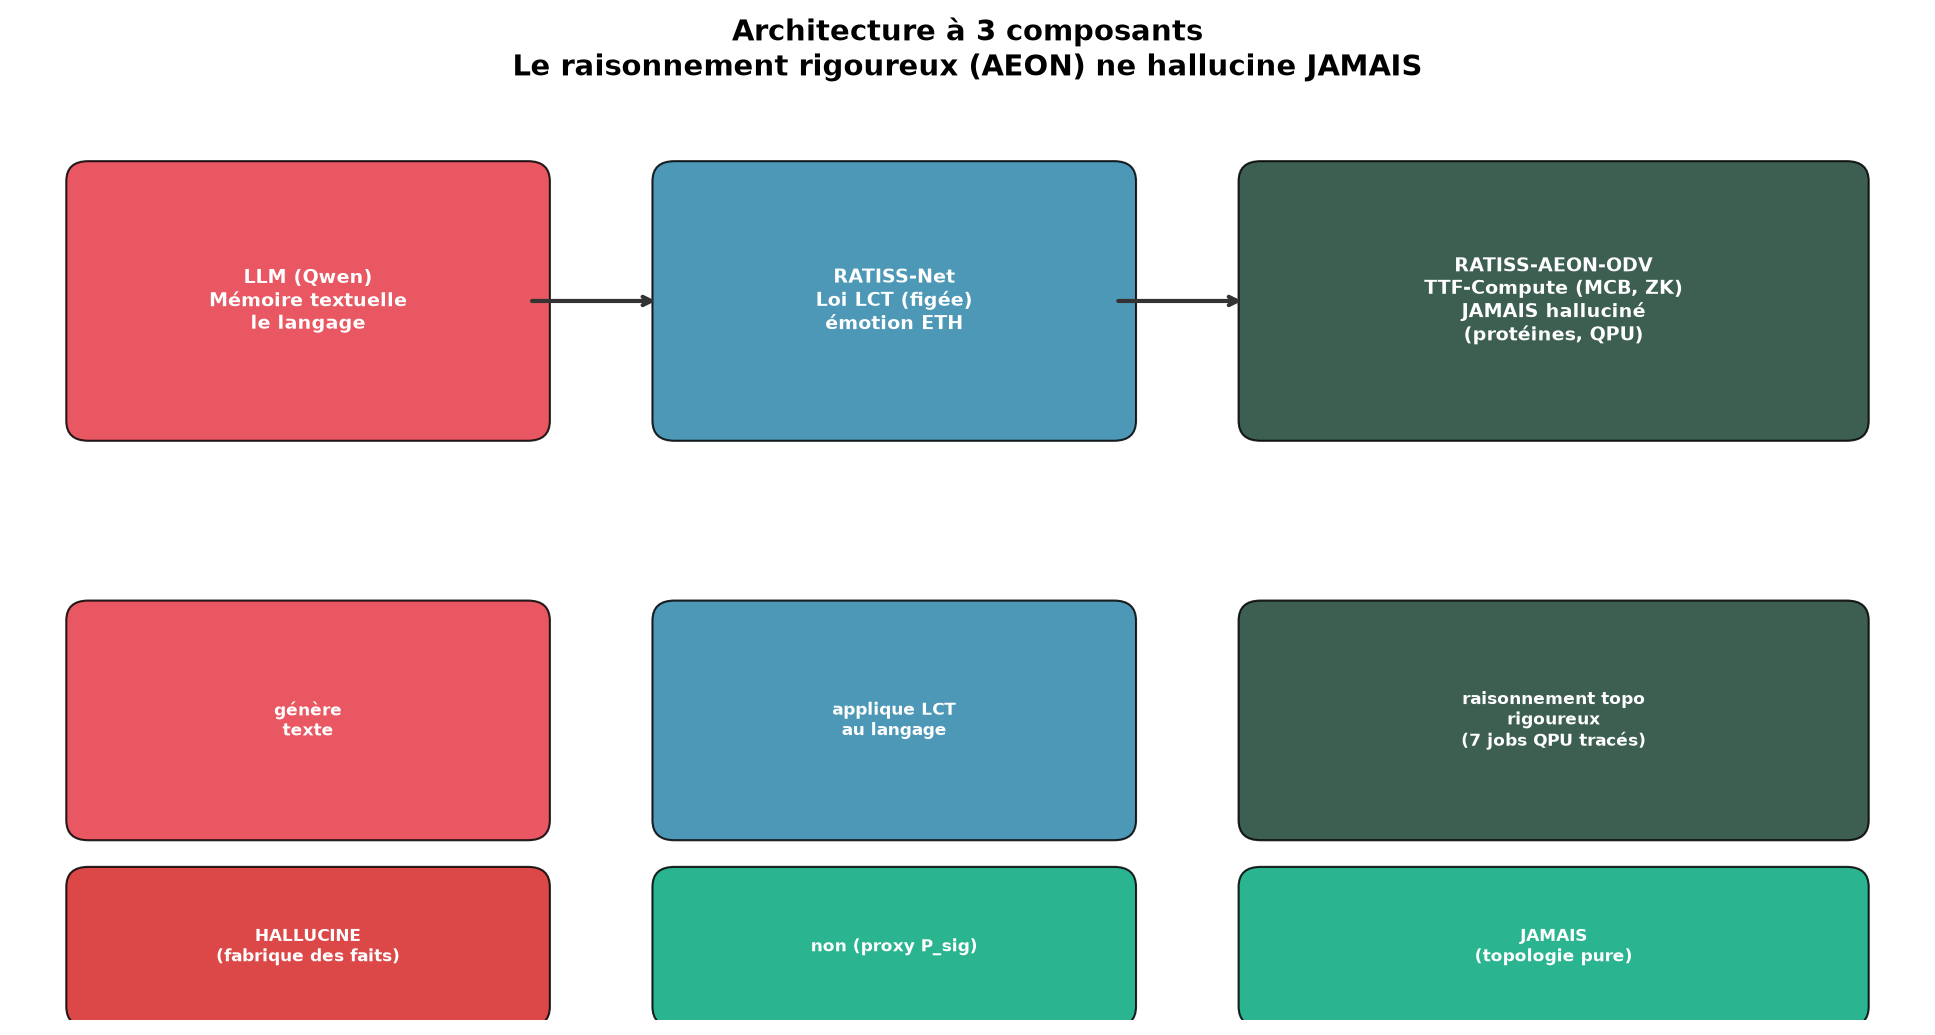
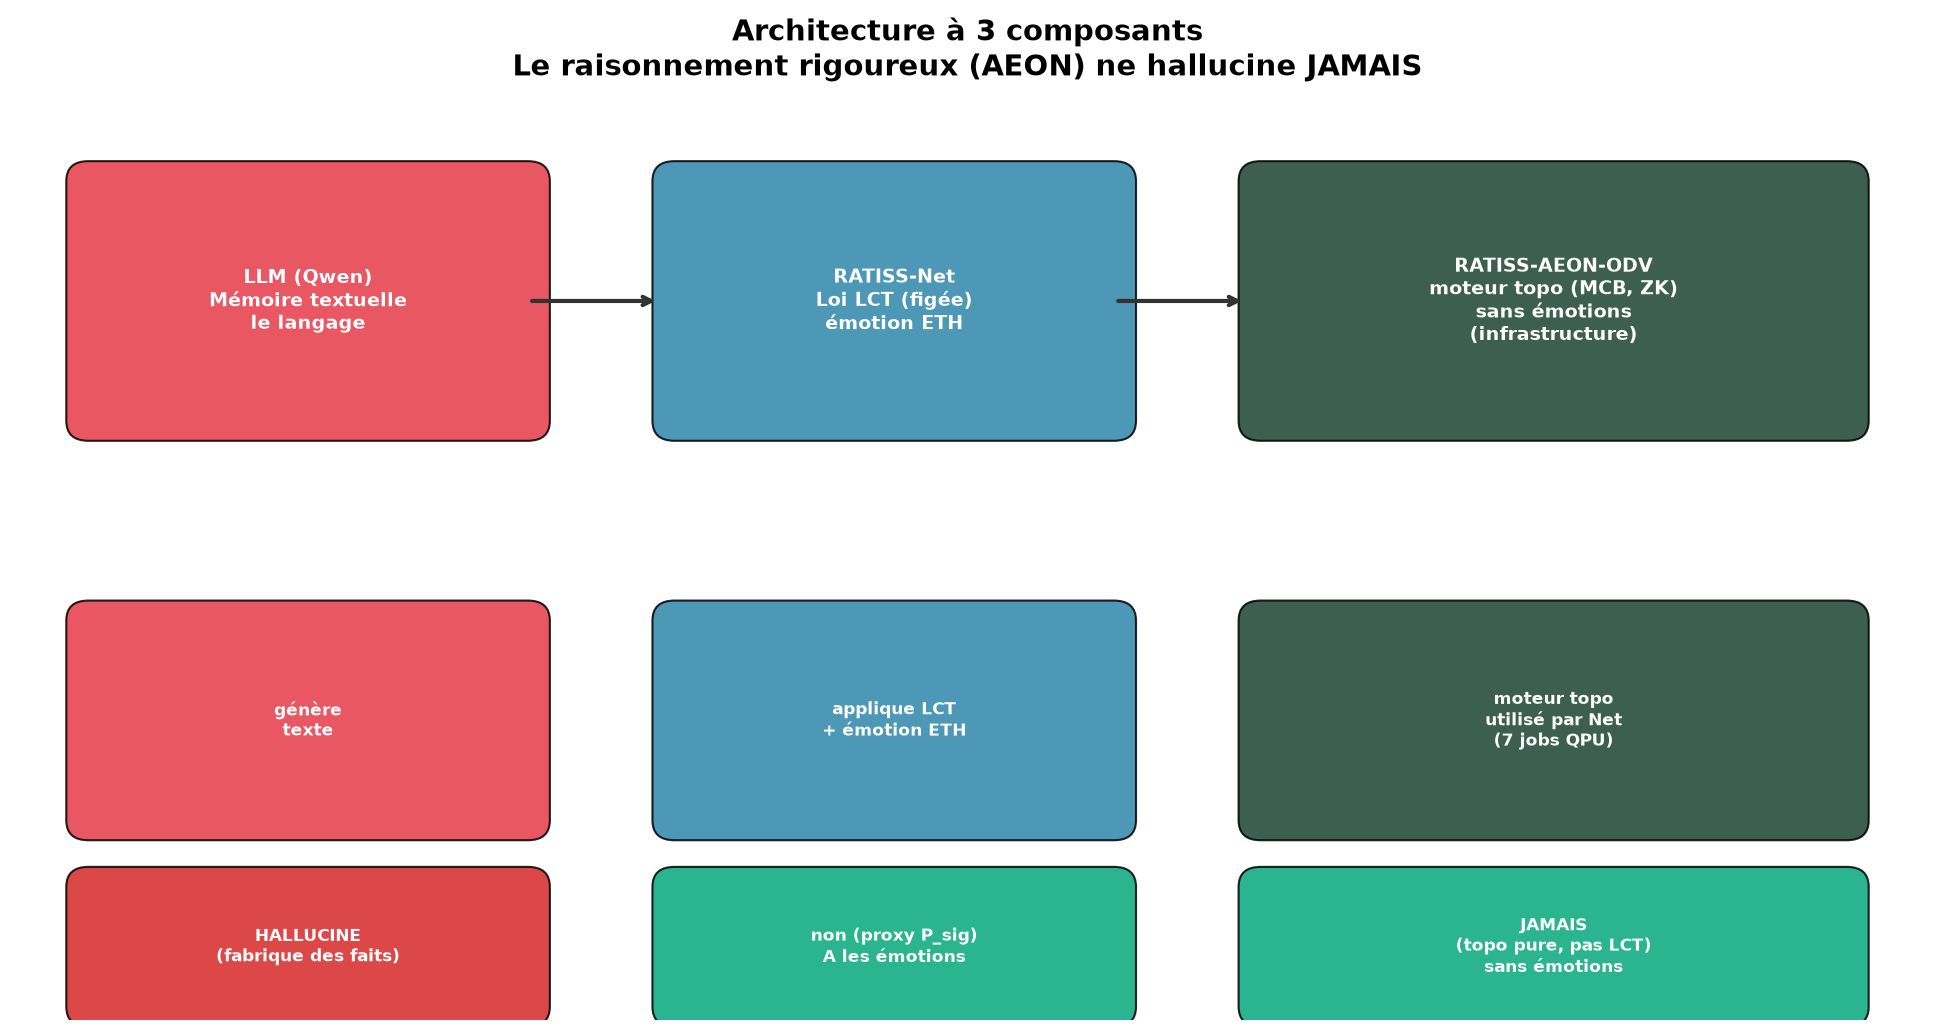
Correction nuance : AEON ≠ RATISS-Net (2 architectures distinctes)
- AEON : moteur topologique pur, SANS émotions, NON régi par la loi P_sig
- RATISS-Net : applique la loi LCT + a les émotions (ETH), utilise des briques d'AEON
- Figures corrigées (fig8, fig11) + docs (DUALITE_MEMOIRES, README, AGENTS)

diff --git a/scripts/generate_figures_dual.py b/scripts/generate_figures_dual.py
@@ -54,7 +54,7 @@ def fig8_dual_memory():
     box(0.5, 4.5, 3.5, 2, "MÉMOIRE TEXTUELLE\n(LLM : Qwen)\n\nretient le mot,\nla séquence,\nla distribution",
         C_LLM)
     # Mémoire logique
-    box(8, 4.5, 3.5, 2, "MÉMOIRE LOGIQUE\n(RATIS-Net + AEON)\n\nretient la forme topo,\nl'émotion (ETH),\nla cohérence (LCT)",
+    box(8, 4.5, 3.5, 2, "MÉMOIRE LOGIQUE\n(RATIS-Net)\n\napplique la loi LCT\n+ émotion (ETH)\n(utilise le moteur AEON)",
         C_RATIS)
     # Couplage
     box(4.25, 1.5, 3.5, 1.8, "COUPLAGE\nBIDIRECTIONNEL\n\n= COGNITION",
@@ -186,16 +186,16 @@ def fig11_three_components():
     box(4.5, 4.5, 3, 1.8, "RATISS-Net\nLoi LCT (figée)\némotion ETH",
         C_RATIS)
     # AEON
-    box(8.5, 4.5, 4, 1.8, "RATISS-AEON-ODV\nTTF-Compute (MCB, ZK)\nJAMAIS halluciné\n(protéines, QPU)",
+    box(8.5, 4.5, 4, 1.8, "RATISS-AEON-ODV\nmoteur topo (MCB, ZK)\nsans émotions\n(infrastructure)",
         C_AEON)
     # Rôles
     box(0.5, 1.5, 3, 1.5, "génère\ntexte", C_LLM, 8)
-    box(4.5, 1.5, 3, 1.5, "applique LCT\nau langage", C_RATIS, 8)
-    box(8.5, 1.5, 4, 1.5, "raisonnement topo\nrigoureux\n(7 jobs QPU tracés)", C_AEON, 8)
+    box(4.5, 1.5, 3, 1.5, "applique LCT\n+ émotion ETH", C_RATIS, 8)
+    box(8.5, 1.5, 4, 1.5, "moteur topo\nutilisé par Net\n(7 jobs QPU)", C_AEON, 8)
     # Statut hallucination
     box(0.5, 0.1, 3, 0.9, "HALLUCINE\n(fabrique des faits)", C_REJECT, 8)
-    box(4.5, 0.1, 3, 0.9, "non (proxy P_sig)", C_CERT, 8)
-    box(8.5, 0.1, 4, 0.9, "JAMAIS\n(topologie pure)", C_CERT, 8)
+    box(4.5, 0.1, 3, 0.9, "non (proxy P_sig)\nA les émotions", C_CERT, 8)
+    box(8.5, 0.1, 4, 0.9, "JAMAIS\n(topo pure, pas LCT)\nsans émotions", C_CERT, 8)
 
     # flèches
     for x in [3.5, 7.5]:

diff --git a/docs/DUALITE_MEMOIRES.md b/docs/DUALITE_MEMOIRES.md
@@ -112,27 +112,36 @@ Le module `fusion/dual_memory.py` implémente le couplage bidirectionnel :
 
 ## 4. Architecture à 3 composants
 
-Le couplage ne fait pas intervenir que 2, mais **3** composants — et c'est
-essentiel pour l'honnêteté :
+ATTENTION — nuance importante (corrigée) : ce sont **deux architectures
+distinctes**, pas une seule "mémoire logique". AEON et RATISS-Net ne sont pas
+la même chose.
 
 ![Architecture à 3 composants](docs/figures/fig11_three_components.png)
 
-| Composant | Mémoire | Rôle | Hallucine ? |
+| Composant | Architecture | Émotions ? | Régi par la loi LCT ? |
 |---|---|---|---|
-| **LLM** (Qwen) | textuelle | génère le langage | **Oui** (fabrique des faits) |
-| **RATISS-Net** | logique (langage) | applique la loi LCT au langage, émotion ETH | Non (proxy P_sig) |
-| **RATISS-AEON-ODV** | logique (topologie pure) | raisonnement topo rigoureux (MCB, ZK) | **JAMAIS** |
+| **LLM** (Qwen) | mémoire textuelle, langage | Non | Non |
+| **RATISS-Net** | mémoire logique appliquée au langage + **émotions (ETH)** | **Oui** | **Oui** (ΔW = η·φ·P_sig·C) |
+| **RATISS-AEON-ODV** | moteur topologique pur (MCB, CollapseWell, ZK) — **infrastructure** | **Non** | **Non** |
 
-C'est **AEON** qui a formalisé et validé la loi LCT — sur les protéines, les
-cristaux, les MZI, les KMD, l'état quantique, le flux financier, les QPU IBM
-(7 jobs traçables) — **sans jamais halluciner**. Pourquoi ? Parce qu'AEON ne
-génère pas de langage : il mesure une structure topologique (persistance de
-cycle H1, MCB, invariance ZK). On ne peut pas fabriquer quand on ne fait que
-mesurer une forme.
+- **RATISS-Net** fonctionne, a des émotions (ETH), et applique la loi LCT
+  (R = P_sig). Il **utilise des briques d'AEON** (le cerveau TTF-Compute via
+  `ttf_bridge`) comme moteur de calcul.
+- **AEON** est le moteur topologique. Il **n'a pas d'émotions** et **ne
+  fonctionne pas sur la loi P_sig** : ce n'est pas lui qui est régi par la loi
+  LCT. C'est l'infrastructure de calcul topologique (IntricatedGraph, MCB,
+  CollapseWell, ZK). La loi LCT a été *formalisée et validée en l'utilisant
+  comme outil* — sur les protéines, les cristaux, les MZI, les KMD, l'état
+  quantique, le flux financier, les QPU IBM (7 jobs traçables) — mais AEON
+  lui-même n'est pas "régi par" P_sig.
 
-Le LLM hallucine par nature (mémoire textuelle seule). RATISS-Net en est
-l'application au langage. Le couplage est l'architecture qui fait travailler
-les trois ensemble.
+AEON ne hallucine jamais, non pas parce qu'il "applique la loi LCT", mais
+parce qu'il **ne génère pas de langage** : il mesure une structure
+topologique (persistance de cycle H1, MCB, invariance ZK). On ne peut pas
+fabriquer quand on ne fait que mesurer une forme.
+
+Le LLM hallucine par nature (mémoire textuelle seule). RATISS-Net applique
+la loi LCT + l'émotion au langage. AEON est le moteur qu'ils utilisent.
 
 ## 5. Ce que ça change
 

diff --git a/AGENTS.md b/AGENTS.md
@@ -38,6 +38,11 @@ Agent cognitif symbiotique, souverain, certifié ZK. CPU-only, offline-capable.
 - Pas d'apprentissage conjoint bout-en-bout (Phase 4 expérimentale).
 
 ## Dépôts liés (user: evinajonathan13-max)
-- RATISS-ODV-AEON : cerveau TTF-Compute (copié dans fusion/aeon/)
-- Ratiss-experimental-IA- : RATIS-Net (copié dans fusion/ratis_net/)
+- RATISS-ODV-AEON : moteur TTF-Compute (copié dans fusion/aeon/) — INFRASTRUCTURE topo pure, SANS émotions, NON régi par la loi P_sig. Utilisé comme moteur par RATISS-Net.
+- Ratiss-experimental-IA- : RATISS-Net (copié dans fusion/ratis_net/) — applique la loi LCT + a les émotions (ETH), utilise des briques d'AEON via ttf_bridge.
 - robot-Ratiss- : robot téléphone (interface port 12000, non inclus ici)
+
+## Nuance corrigée (3 composants distincts)
+- LLM (Qwen) : mémoire textuelle, hallucine.
+- RATISS-Net : mémoire logique + émotions (ETH), régi par la loi LCT (R = P_sig).
+- AEON : moteur topologique pur, SANS émotions, NON régi par P_sig. La loi LCT a été validée en l'utilisant comme outil (protéines, QPU — jamais halluciné car pas de langage).

diff --git a/README.md b/README.md
@@ -67,7 +67,7 @@ Le LLM (Qwen 2.5:0.5b) génère (mémoire textuelle) → RATIS évalue (mémoire
 Test sur 5 questions pièges (fait fabriqué, confiance médicale, faux plafond numérique, prémisses fausses, citation fabriquée).
 
 - **Validé** : ancrage émotionnel (C4 2/3), convergence en 1 tour (C3 3/3), prudence médicale, citation réduite.
-- **Limite honnête** : le couplage guide l'**émotion** mais n'empêche pas un Qwen 0.5b de fabriquer des faits précis. AEON ne hallucine jamais car il ne génère pas de langage — le LLM hallucine toujours car il ne fait que ça.
+- **Limite honnête** : le couplage guide l'**émotion** mais n'empêche pas un Qwen 0.5b de fabriquer des faits précis. AEON ne hallucine jamais car il ne génère pas de langage (moteur topologique pur, sans émotions — distinct de RATISS-Net qui applique la loi LCT + a les émotions).
 
 ### Tool-calling certifié : 3/3 ✓
 
